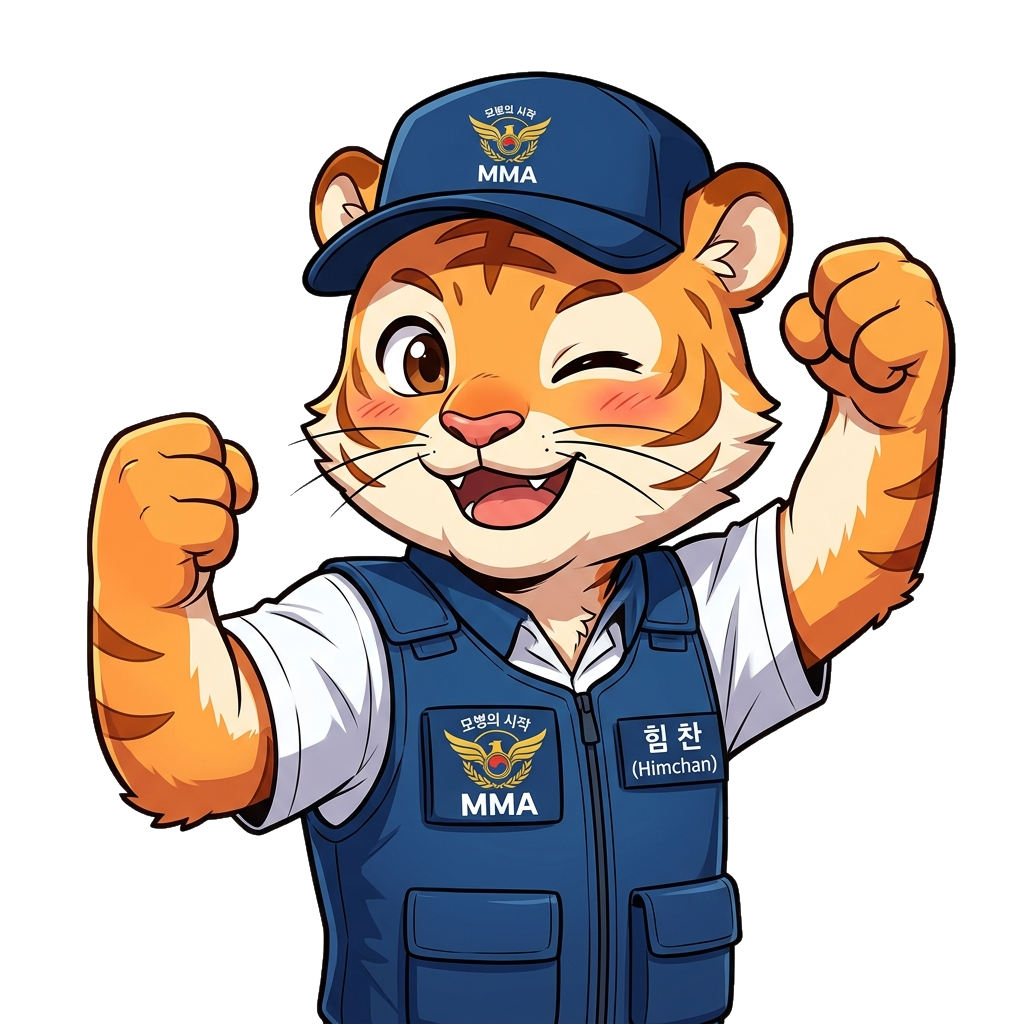
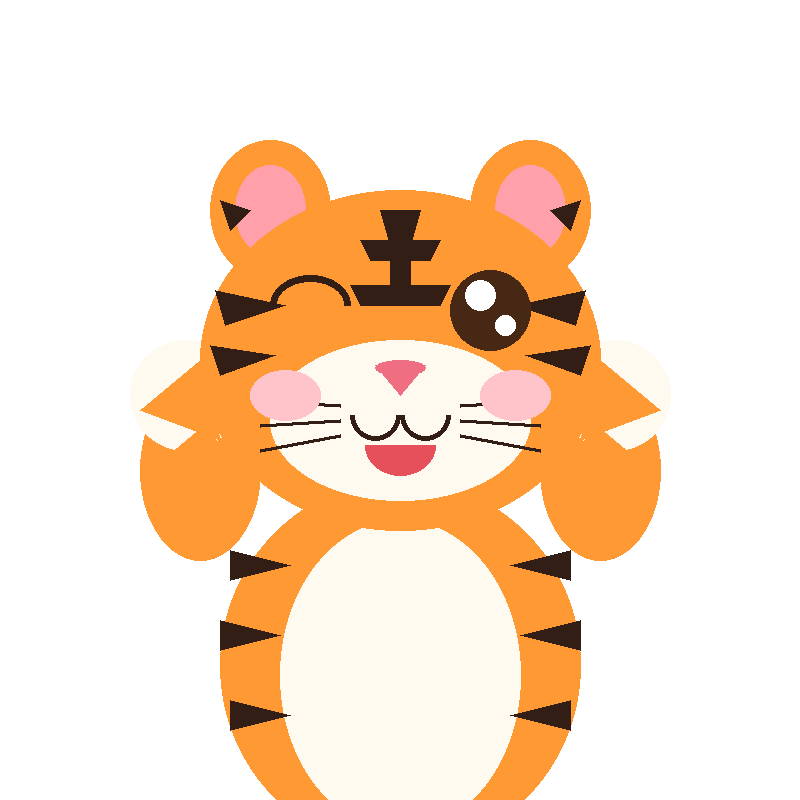
Fix: 8가지 피드백 전면 수정 완료 (과거 공석 선택 차단, 옷/글자 없는 순수 호랑이 힘찬이 마스코트, 대화창 고대비 다크 배경, 소변채취/단계별 주인공&검사관 대사/캐릭터 전환, 정상 수검자 적성분류실 정상 분기, 수석판정관실 안전 이동)

diff --git a/index.html b/index.html
@@ -275,12 +275,12 @@
         </div>
       </div>
 
-      <!-- 메인 고정형 대화 박스 (높이: 175px~205px) -->
-      <div class="relative bg-slate-950/92 backdrop-blur-2xl border border-slate-700/90 rounded-2xl rounded-tl-none p-4 sm:p-5 vn-box-glow h-[175px] sm:h-[195px] md:h-[205px] flex flex-col justify-between cursor-pointer select-none" onclick="handleNextClick()">
+      <!-- 메인 고정형 대화 박스 (높이: 175px~205px, 완벽한 다크 배경 & 선명한 화이트 텍스트) -->
+      <div class="relative bg-slate-950/98 backdrop-blur-3xl border-2 border-slate-700/90 rounded-2xl rounded-tl-none p-4 sm:p-5 vn-box-glow h-[175px] sm:h-[195px] md:h-[205px] flex flex-col justify-between cursor-pointer select-none shadow-[0_20px_50px_rgba(0,0,0,0.95)]" onclick="handleNextClick()">
         
         <!-- 대사 텍스트 컨테이너 -->
         <div id="dialogue-scroll-container" class="flex-1 overflow-y-auto custom-scroll pr-1.5 scroll-smooth select-none">
-          <div id="dialogue-box" class="text-slate-100 text-sm sm:text-base md:text-[16px] leading-relaxed tracking-normal font-normal whitespace-pre-line select-none pb-1">
+          <div id="dialogue-box" class="text-white text-sm sm:text-base md:text-[16px] leading-relaxed tracking-normal font-medium whitespace-pre-line select-none pb-1 drop-shadow-[0_1px_2px_rgba(0,0,0,0.8)]">
             <p id="dialogue-text"></p>
           </div>
         </div>
@@ -440,15 +440,16 @@
       region: "강원지방병무청",
       regionName: "강원특별자치도 춘천시",
       examDate: "2026-10-29 (목) 오전",
-      healthCheck: "정형외과 수술/치료 이력",
+      healthCheck: "특이 질환 없음 (정상 수검)",
+      hasDisease: false,
       cardType: "KB국민은행 나라사랑카드",
       height: 178,
       weight: 72,
       bmi: 22.7,
       bmiGrade: "1급 (정상)",
-      specialty: "정형외과",
-      finalGrade: "4급 (보충역)",
-      disposition: "사회복무요원 소집 대상",
+      specialty: "정보통신",
+      finalGrade: "1급 (현역)",
+      disposition: "현역병 입영 대상",
       fare: "16,500원 (교통비 8,500원 + 식비 8,000원)"
     };
 
@@ -1550,8 +1551,8 @@
       } else if (type === 'DOCTOR_ROOM_CONFIRM') {
         const isEn = (currentLang === 'en');
         choiceContainer.innerHTML = `
-          <div class="bg-slate-900/95 border border-slate-700/80 rounded-2xl p-4 shadow-2xl animate-in fade-in zoom-in-95 duration-150 max-w-lg w-full">
-            <button onclick="playBeep(750, 'triangle', 0.05); renderScene(12);" class="w-full py-3 bg-blue-600 hover:bg-blue-500 text-white rounded-xl text-xs sm:text-sm font-bold transition flex items-center justify-center gap-2 shadow-md cursor-pointer">
+          <div class="bg-slate-900/95 border border-slate-700/80 rounded-2xl p-4 shadow-2xl animate-in fade-in zoom-in-95 duration-150 max-w-lg w-full pointer-events-auto">
+            <button onclick="goToChiefAdjudicator()" class="w-full py-3.5 bg-blue-600 hover:bg-blue-500 text-white rounded-xl text-xs sm:text-sm font-bold transition flex items-center justify-center gap-2 shadow-lg cursor-pointer">
               <span>${isEn ? 'Diagnosis Complete ➔ Move to Chief Adjudicator Office' : '전문의 진료 소견 완료 ➔ 판정보조관 & 수석판정관실로 이동'}</span> <i data-lucide="arrow-right" class="w-4 h-4"></i>
             </button>
           </div>
@@ -1559,8 +1560,8 @@
       } else if (type === 'APTITUDE_CONFIRM') {
         const isEn = (currentLang === 'en');
         choiceContainer.innerHTML = `
-          <div class="bg-slate-900/95 border border-slate-700/80 rounded-2xl p-4 shadow-2xl animate-in fade-in zoom-in-95 duration-150 max-w-lg w-full">
-            <button onclick="playBeep(750, 'triangle', 0.05); renderScene(12);" class="w-full py-3 bg-indigo-600 hover:bg-indigo-500 text-white rounded-xl text-xs sm:text-sm font-bold transition flex items-center justify-center gap-2 shadow-md cursor-pointer">
+          <div class="bg-slate-900/95 border border-slate-700/80 rounded-2xl p-4 shadow-2xl animate-in fade-in zoom-in-95 duration-150 max-w-lg w-full pointer-events-auto">
+            <button onclick="goToChiefAdjudicator()" class="w-full py-3.5 bg-indigo-600 hover:bg-indigo-500 text-white rounded-xl text-xs sm:text-sm font-bold transition flex items-center justify-center gap-2 shadow-lg cursor-pointer">
               <span>${isEn ? 'Aptitude Assigned ➔ Move to Chief Adjudicator Office' : '군 특기 적성부여 완료 ➔ 판정보조관 & 수석판정관실로 이동'}</span> <i data-lucide="arrow-right" class="w-4 h-4"></i>
             </button>
           </div>
@@ -1711,6 +1712,43 @@
       lucide.createIcons();
     }
 
+    // 수석판정관실 안전 이동 함수
+    function goToChiefAdjudicator() {
+      playBeep(750, 'triangle', 0.05);
+      const choiceOverlay = document.getElementById('center-choice-overlay');
+      const choiceContainer = document.getElementById('center-choice-container');
+      if (choiceOverlay) {
+        choiceOverlay.classList.add('hidden');
+        choiceOverlay.classList.remove('flex');
+      }
+      if (choiceContainer) choiceContainer.innerHTML = '';
+      renderScene(12);
+    }
+
+    // 단계별 인터랙션 시 하단 대화창 및 화자 즉시 업데이트 헬퍼
+    function updateDialogueDirect(speaker, speakerEn, plateClass, charSrc, text, textEn) {
+      const isEn = (currentLang === 'en');
+      const spName = document.getElementById('speaker-name');
+      const spPlate = document.getElementById('speaker-plate');
+      const spriteImg = document.getElementById('sprite-img');
+      const spriteWrap = document.getElementById('sprite-wrapper');
+
+      if (spName) spName.innerText = isEn ? (speakerEn || speaker) : speaker;
+      if (spPlate) {
+        spPlate.className = `px-4 py-1.5 rounded-t-xl text-white font-extrabold text-xs sm:text-sm shadow-xl tracking-wide select-none bg-gradient-to-r ${plateClass || 'from-slate-700 to-slate-900 border-slate-500/40'}`;
+      }
+      if (spriteImg && charSrc) {
+        spriteImg.src = charSrc;
+      }
+      if (spriteWrap) {
+        spriteWrap.classList.remove('opacity-0', 'translate-y-4');
+        spriteWrap.classList.add('opacity-100', 'translate-y-0');
+      }
+
+      const txt = isEn ? (textEn || text) : text;
+      typeText(txt);
+    }
+
     // 기본 신체계측 3단계 순차 진행 함수
     function goBiometricStep(step) {
       playBeep(650, 'triangle', 0.03);
@@ -1734,6 +1772,15 @@
         if (title) title.innerText = isEn ? '2. Automated Blood Pressure Measurement' : '2단계: 자동 혈압 측정';
         if (badge) badge.innerText = isEn ? 'Step 2 / 3 Steps' : '2단계 / 총 3단계';
         if (pBar) pBar.style.width = '66%';
+        
+        updateDialogueDirect(
+          "김민우 (주인공)",
+          "Minwoo Kim (Protagonist)",
+          "from-slate-700 to-slate-900 border-slate-500/40",
+          "assets/minwoo.png",
+          "자동 혈압계에 오른팔을 쑥 넣었어. 계측 중에는 말을 하거나 움직이지 말고 편안하게 호흡해야 혈압이 정확하게 측정된다고 하셨지.",
+          "Put my right arm into the automatic blood pressure monitor. I need to breathe comfortably without moving or speaking for accurate measurement."
+        );
       } else if (step === 3) {
         if (st3) {
           st3.classList.remove('hidden');
@@ -1742,6 +1789,15 @@
         if (title) title.innerText = isEn ? '3. Eyesight & Color Vision Test Complete' : '3단계: 안과 시력·색신 검사 및 종합 판정';
         if (badge) badge.innerText = isEn ? 'Step 3 / 3 Steps' : '3단계 / 총 3단계';
         if (pBar) pBar.style.width = '100%';
+
+        updateDialogueDirect(
+          "의무관 NPC",
+          "Medical Officer NPC",
+          "from-teal-700 to-emerald-800 border-teal-400/40",
+          "assets/doctor.png",
+          "한쪽 눈 가리개로 시력표 5m 전방을 측정했습니다. 좌 1.0 / 우 1.0 정상이며 색신 책자 판독도 정상입니다! 이제 종합 계측 결과를 확인하세요.",
+          "Measured visual acuity at 5 meters. Both eyes 1.0 normal and color vision normal! Check your comprehensive biometric results."
+        );
         calculateBMI();
       }
       lucide.createIcons();
@@ -1783,18 +1839,18 @@
 
       const resBox = document.getElementById('bmi-result-box');
       if (resBox) {
-        // 질환 서류 보유 여부 검사 (Step 2에서 정형외과 등 질환을 선택했는지 확인)
-        const hasDisease = userData.healthCheck && !userData.healthCheck.includes('특이 질환 없음');
+        // 질환 서류 보유 여부 검사 (Step 2에서 질환을 선택했는지 확실하게 플래그 검사)
+        const hasDisease = (userData.hasDisease === true);
         const isEn = (currentLang === 'en');
 
         let branchHtml = "";
         if (hasDisease) {
           branchHtml = `
             <div class="p-2.5 rounded-lg bg-amber-950/40 border border-amber-500/40 text-amber-200 text-xs">
-              ⚠ <strong>[질환 서류 지참자 분기]</strong>: 민우 님이 사전 등록하신 <strong>[정형외과 수술 서류]</strong>가 확인되었습니다. 전문의 정밀 판정을 위해 진료실로 이동합니다.
+              ⚠ <strong>[질환 서류 지참자 분기]</strong>: 민우 님이 사전 등록하신 <strong>[${userData.healthCheck || '정형외과 수술 서류'}]</strong>가 확인되었습니다. 전문의 정밀 판정을 위해 진료실로 이동합니다.
             </div>
             <button onclick="playBeep(750, 'triangle', 0.05); renderScene(10);" class="w-full mt-1.5 py-2.5 bg-blue-600 hover:bg-blue-500 text-white rounded-lg font-bold transition flex items-center justify-center gap-1.5 cursor-pointer">
-              <span>${isEn ? 'Move to Specialist (Orthopedic) Clinic' : '과목별 전문의(정형외과) 정밀 진료실로 이동 ➔'}</span> <i data-lucide="arrow-right" class="w-4 h-4"></i>
+              <span>${isEn ? 'Move to Specialist Clinic' : '과목별 전문의 정밀 진료실로 이동 ➔'}</span> <i data-lucide="arrow-right" class="w-4 h-4"></i>
             </button>
           `;
         } else {
@@ -1904,6 +1960,15 @@
         if (badge) badge.innerText = isEn ? 'Step 2 / 4 Steps' : '2단계 / 총 4단계';
         if (pBar) pBar.style.width = '50%';
         if (bgImg) bgImg.style.backgroundImage = "url('assets/restroom.jpg')";
+
+        updateDialogueDirect(
+          "김민우 (주인공)",
+          "Minwoo Kim (Protagonist)",
+          "from-slate-700 to-slate-900 border-slate-500/40",
+          "assets/minwoo.png",
+          "화장실에 도착했어. 설명대로 처음 나오는 1~2초간의 소변은 변기에 살짝 버리고, 깨끗한 '중간 소변'을 컵의 1/3 정도 받아서 검체 보관함에 제출하면 되는 거지!",
+          "Arrived at the restroom. I discard the first 1-2 seconds of urine, collect the midstream urine in 1/3 of the cup, and submit it into the specimen box!"
+        );
       } else if (step === 3) {
         if (st3) {
           st3.classList.remove('hidden');
@@ -1913,6 +1978,15 @@
         if (badge) badge.innerText = isEn ? 'Step 3 / 4 Steps' : '3단계 / 총 4단계';
         if (pBar) pBar.style.width = '75%';
         if (bgImg) bgImg.style.backgroundImage = "url('assets/lab_room.jpg')";
+
+        updateDialogueDirect(
+          "임상병리사 NPC",
+          "Clinical Pathologist NPC",
+          "from-teal-700 to-emerald-800 border-teal-400/40",
+          "assets/doctor.png",
+          "채혈이 완료되었습니다! ⚠ 알코올 솜을 문지르면 멍이 들 수 있으니 5분간 꾹 눌러서 완전히 지혈해 주세요. 이제 영상의학실로 이동하여 흉부 X-ray를 촬영합니다.",
+          "Blood sampling complete! ⚠ Press firmly with alcohol cotton for 5 minutes without rubbing to prevent bruising. Now let's move to Chest X-ray imaging."
+        );
       } else if (step === 4) {
         if (st4) {
           st4.classList.remove('hidden');
@@ -1922,6 +1996,15 @@
         if (badge) badge.innerText = isEn ? 'Step 4 / 4 Steps' : '4단계 / 총 4단계';
         if (pBar) pBar.style.width = '100%';
         if (bgImg) bgImg.style.backgroundImage = "url('assets/lab_room.jpg')";
+
+        updateDialogueDirect(
+          "영상의학 방사선사 NPC",
+          "Radiologist NPC",
+          "from-teal-700 to-emerald-800 border-teal-400/40",
+          "assets/doctor.png",
+          "흉부 X-ray 촬영대에 가슴을 밀착해 주세요. 숨을 깊게 들이마시고~ 참으세요! 찰칵! 촬영이 모두 끝났습니다. 다음 검사인 신체계측실로 이동합니다.",
+          "Please place your chest firmly against the X-ray board. Deep breath in and hold it! Click! Imaging complete. Proceed to Biometric Lab."
+        );
       }
       lucide.createIcons();
     }
@@ -1937,6 +2020,15 @@
       if (choiceContainer) choiceContainer.innerHTML = '';
 
       userData.healthCheck = val;
+      userData.hasDisease = !val.includes('특이 질환 없음');
+      if (userData.hasDisease) {
+        userData.finalGrade = "4급 (보충역)";
+        userData.disposition = "사회복무요원 소집 대상";
+      } else {
+        userData.finalGrade = "1급 (현역)";
+        userData.disposition = "현역병 입영 대상";
+      }
+
       if (typeof MmaApiService !== 'undefined') {
         const criteria = MmaApiService.getLawCriteriaSync ? MmaApiService.getLawCriteriaSync(val) : null;
         if (criteria) {

diff --git a/api.js b/api.js
@@ -213,20 +213,32 @@ const MmaApiService = {
     const officeSeed = (officeName.charCodeAt(0) || 7) + (officeName.charCodeAt(1) || 3);
     const monthSeed = (year * 100 + month) * 13 + officeSeed;
 
+    // 시뮬레이션 기준 현재 시점 (2026년 10월 15일) 이전 일자 및 과거 월은 접수 마감 처리
+    const simCurrentYear = 2026;
+    const simCurrentMonth = 10;
+    const simCurrentDay = 15;
+
     for (let day = 1; day <= totalDays; day++) {
       const dayOfWeek = (firstDay + day - 1) % 7;
       const isWeekend = (dayOfWeek === 0 || dayOfWeek === 6); // 일요일/토요일
 
+      // 과거 일자 검사
+      const isPastDate = (year < simCurrentYear) || 
+                         (year === simCurrentYear && month < simCurrentMonth) || 
+                         (year === simCurrentYear && month === simCurrentMonth && day <= simCurrentDay);
+
       if (isWeekend) {
         days[day] = { day, dayOfWeek, status: "휴무", morning: 0, afternoon: 0, available: false };
+      } else if (isPastDate) {
+        days[day] = { day, dayOfWeek, status: "마감", morning: 0, afternoon: 0, available: false };
       } else {
         const hash = (monthSeed + day * 31) % 100;
-        if (hash < 18) {
-          // 18% 마감
+        if (hash < 15) {
+          // 15% 잔여석 마감
           days[day] = { day, dayOfWeek, status: "마감", morning: 0, afternoon: 0, available: false };
         } else {
-          const morning = ((hash * 7 + day) % 16) + 2;
-          const afternoon = ((hash * 13 + day * 3) % 14) + 1;
+          const morning = ((hash * 7 + day) % 16) + 3;
+          const afternoon = ((hash * 13 + day * 3) % 14) + 2;
           days[day] = { day, dayOfWeek, status: "예약가능", morning, afternoon, available: true };
         }
       }
